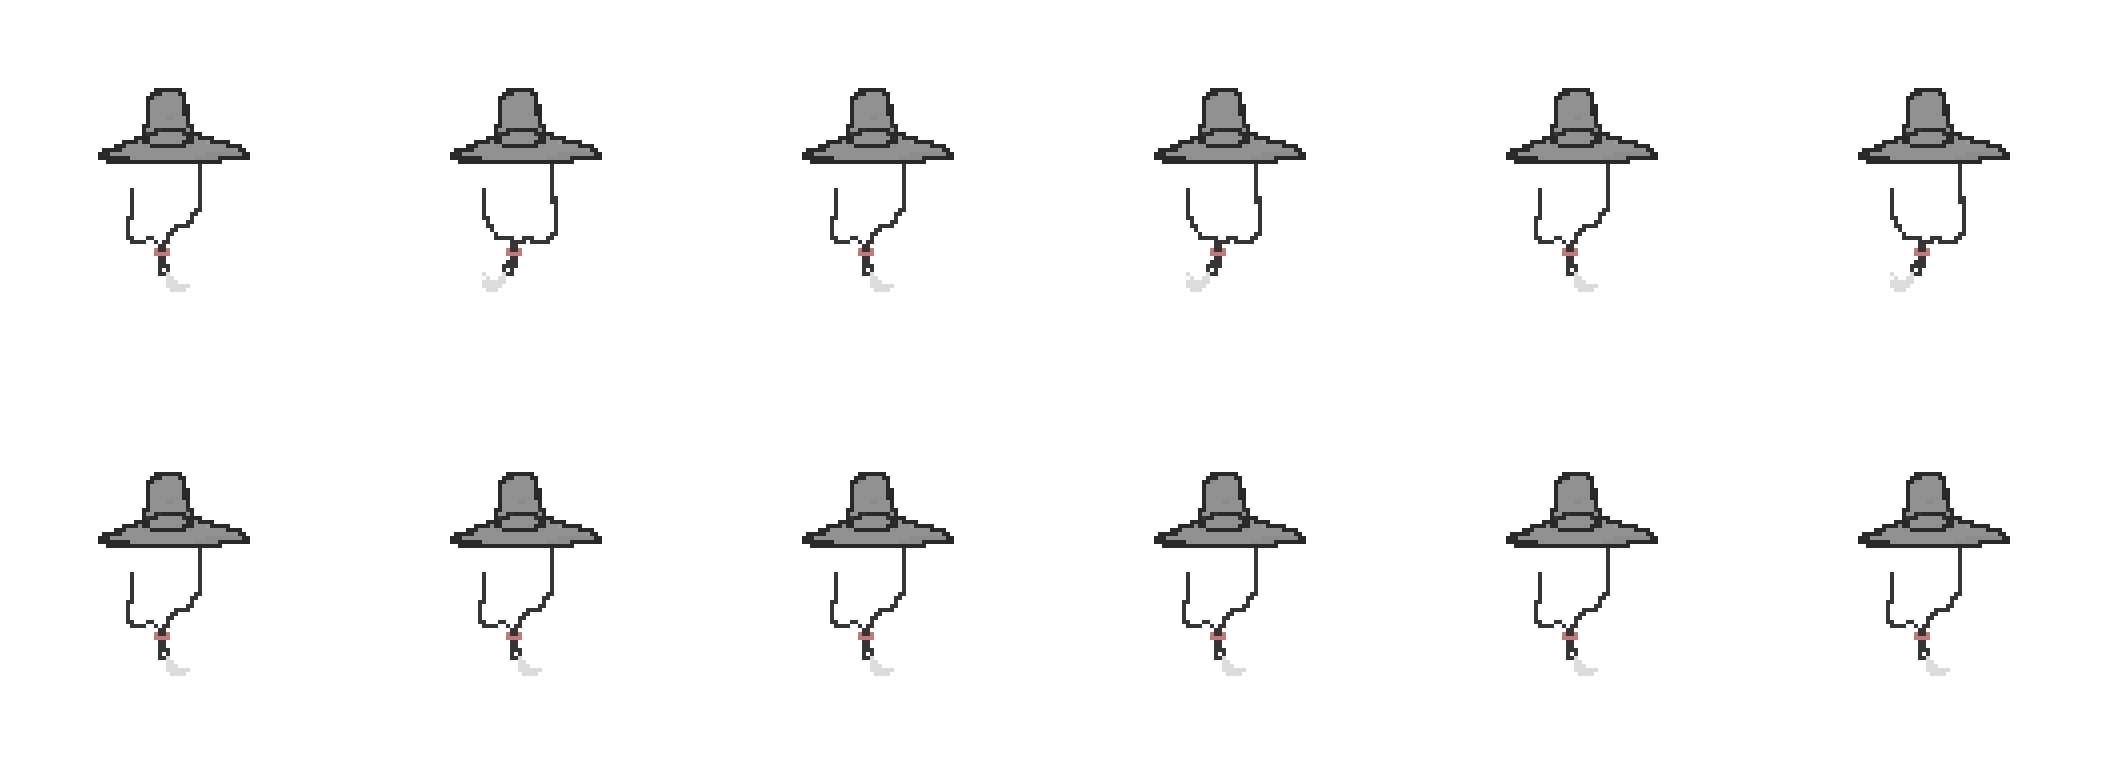
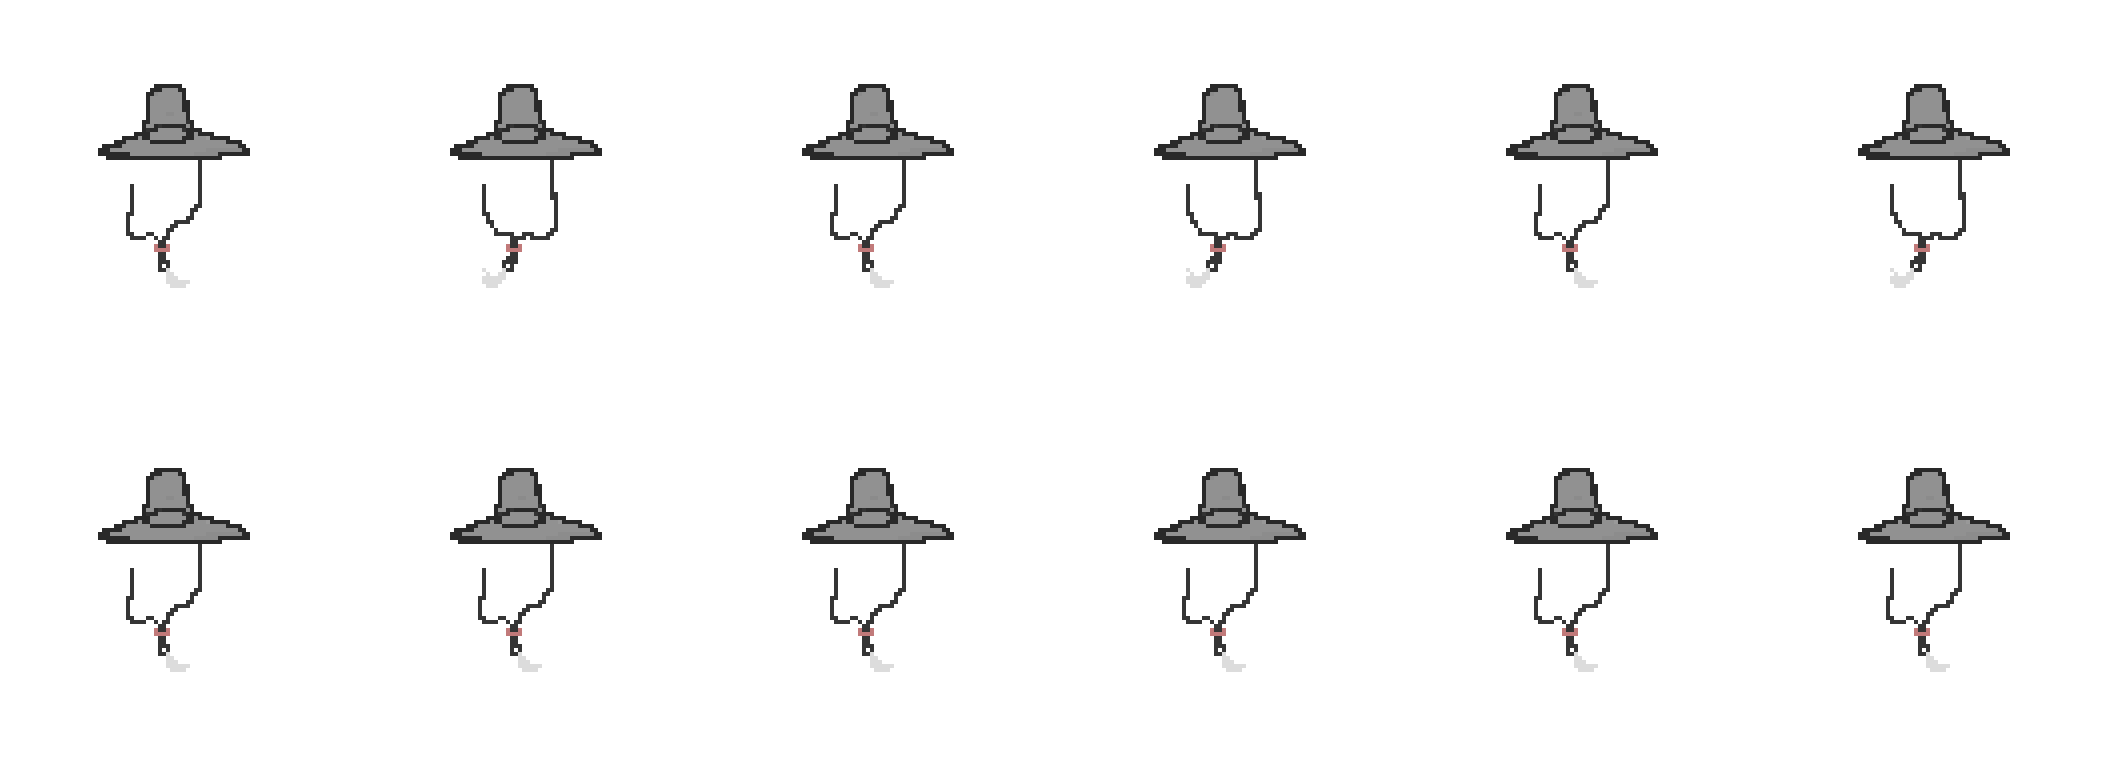
🎩 갓을 한 도트(4픽셀) 위로
칸 안 자리 y 88 → 84. 그림이 **4픽셀 눈금**이라 5 로 올리면 눈금이 어긋나
사람과 따로 놀기에, 가장 가까운 한 도트만큼 올렸다.
(세로로 색이 바뀌는 자리가 그대로 y≡0(mod 4) 인 것을 확인)

Claude-Session: https://claude.ai/code/session_01756qBPpCuB22evHBmdXYTY

diff --git a/closet.js b/closet.js
@@ -262,7 +262,9 @@ const DOT_SLOTS = [
             //   칸 자리로는 어디에 놓을지 알 수 없었다. 그래서 **쓰던 갓**에
             //   맞췄다 — 둘 다 폭이 152 로 같아서 왼쪽을 98 에 맞추고,
             //   **챙(제일 넓은 줄)** 이 옛 갓과 같은 높이(칸 안 152)에 오도록
-            //   위를 88 로 잡았다.
+            //   위를 88 로 잡았다가, 「조금 더 위로」 하셔서 **한 도트(4픽셀)**
+            //   올려 84 로 두었다 — 그림이 4픽셀 눈금이라 5 로 올리면 눈금이
+            //   어긋나 사람과 따로 논다.
             //   ✗ 위끝끼리 맞추면 안 된다 — 새 갓은 꼭지가 12픽셀(세 도트)
             //     더 높아서, 그러면 챙이 그만큼 내려와 눈을 가린다.
             //   칸 채우기는 쓰던 갓과 같은 규칙 — 걷기 줄은 두 모양을 번갈아,
